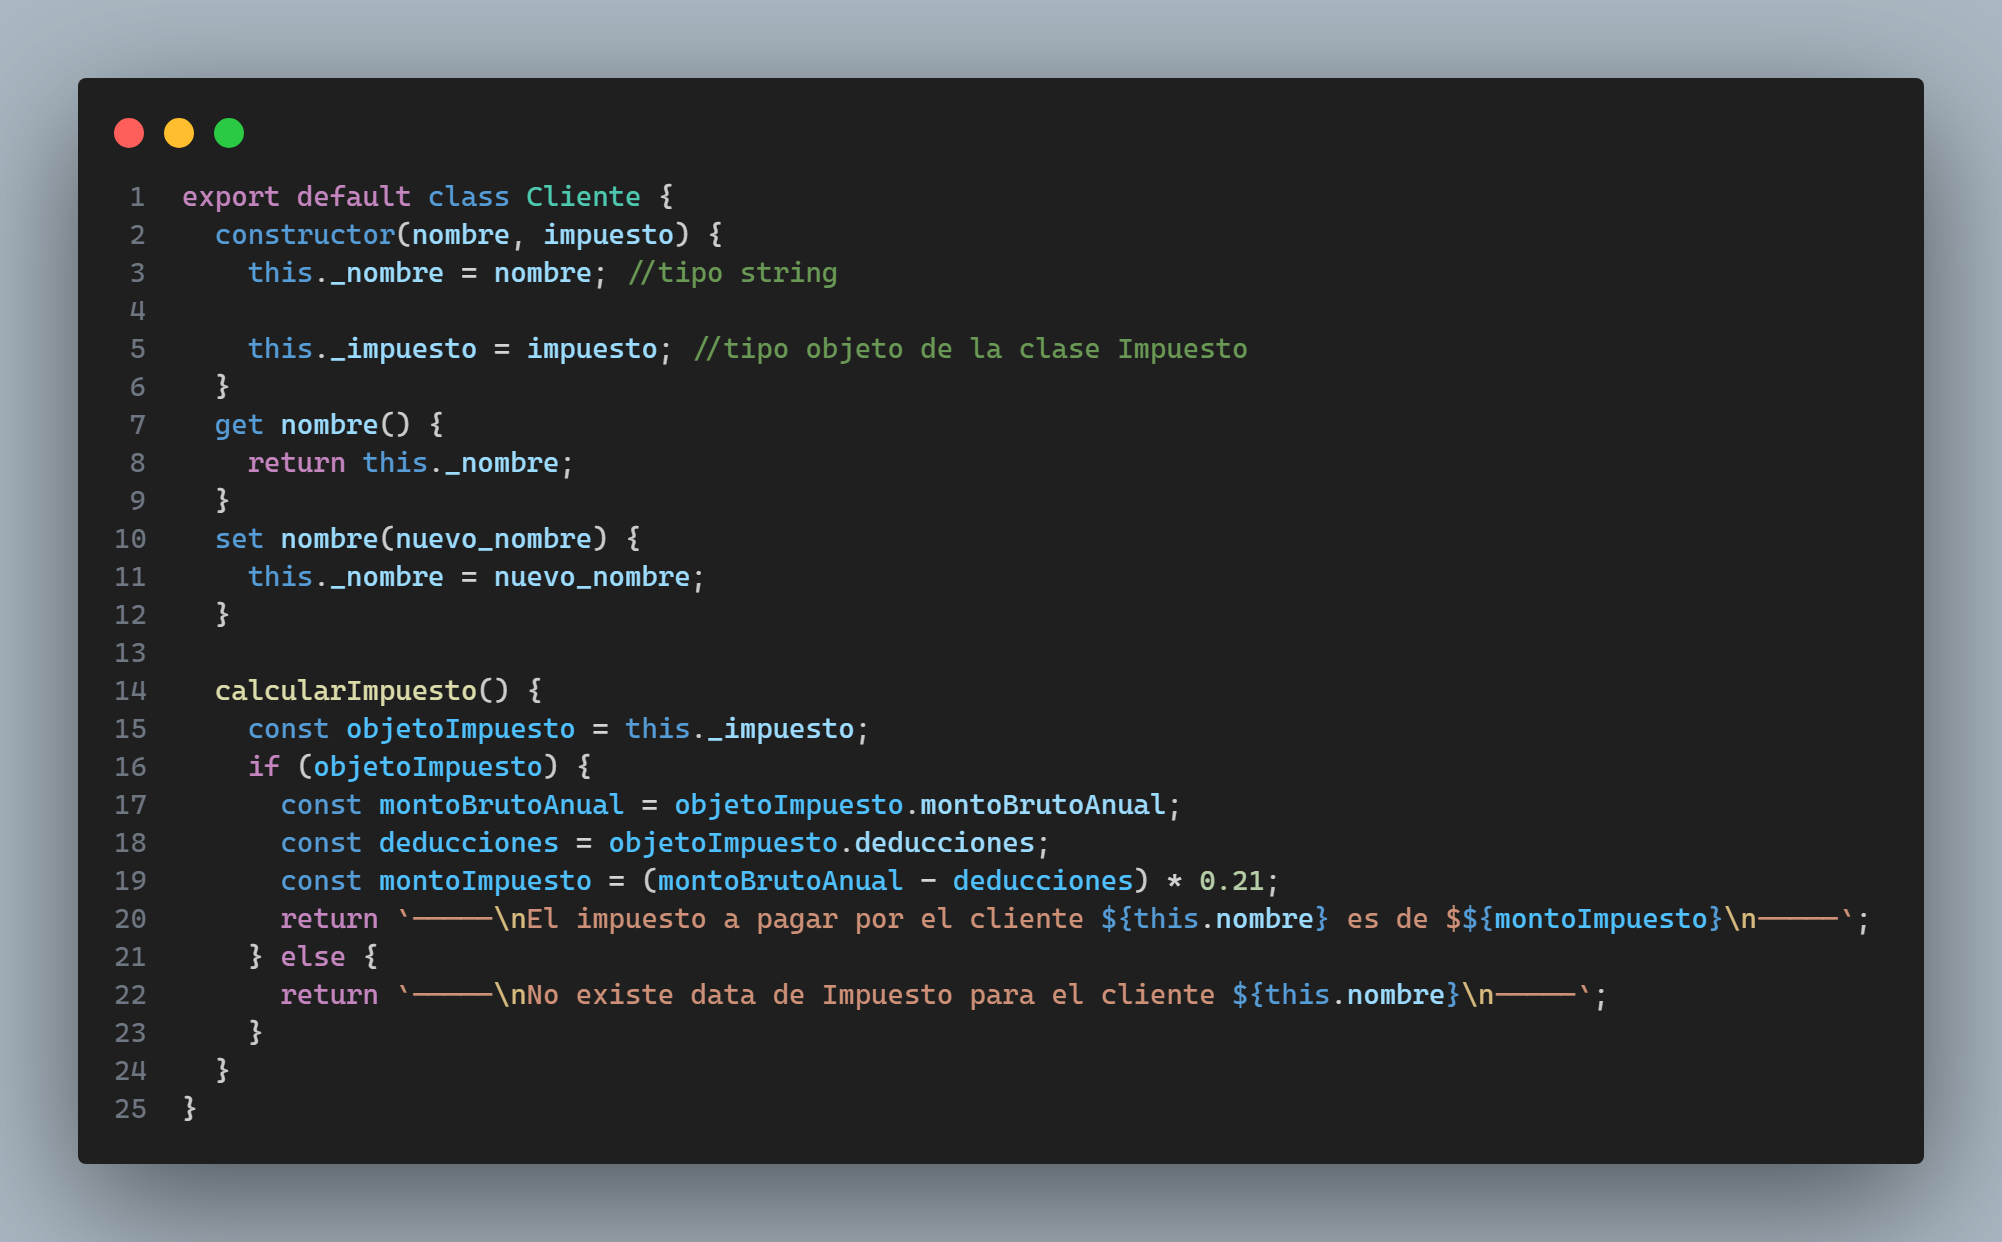
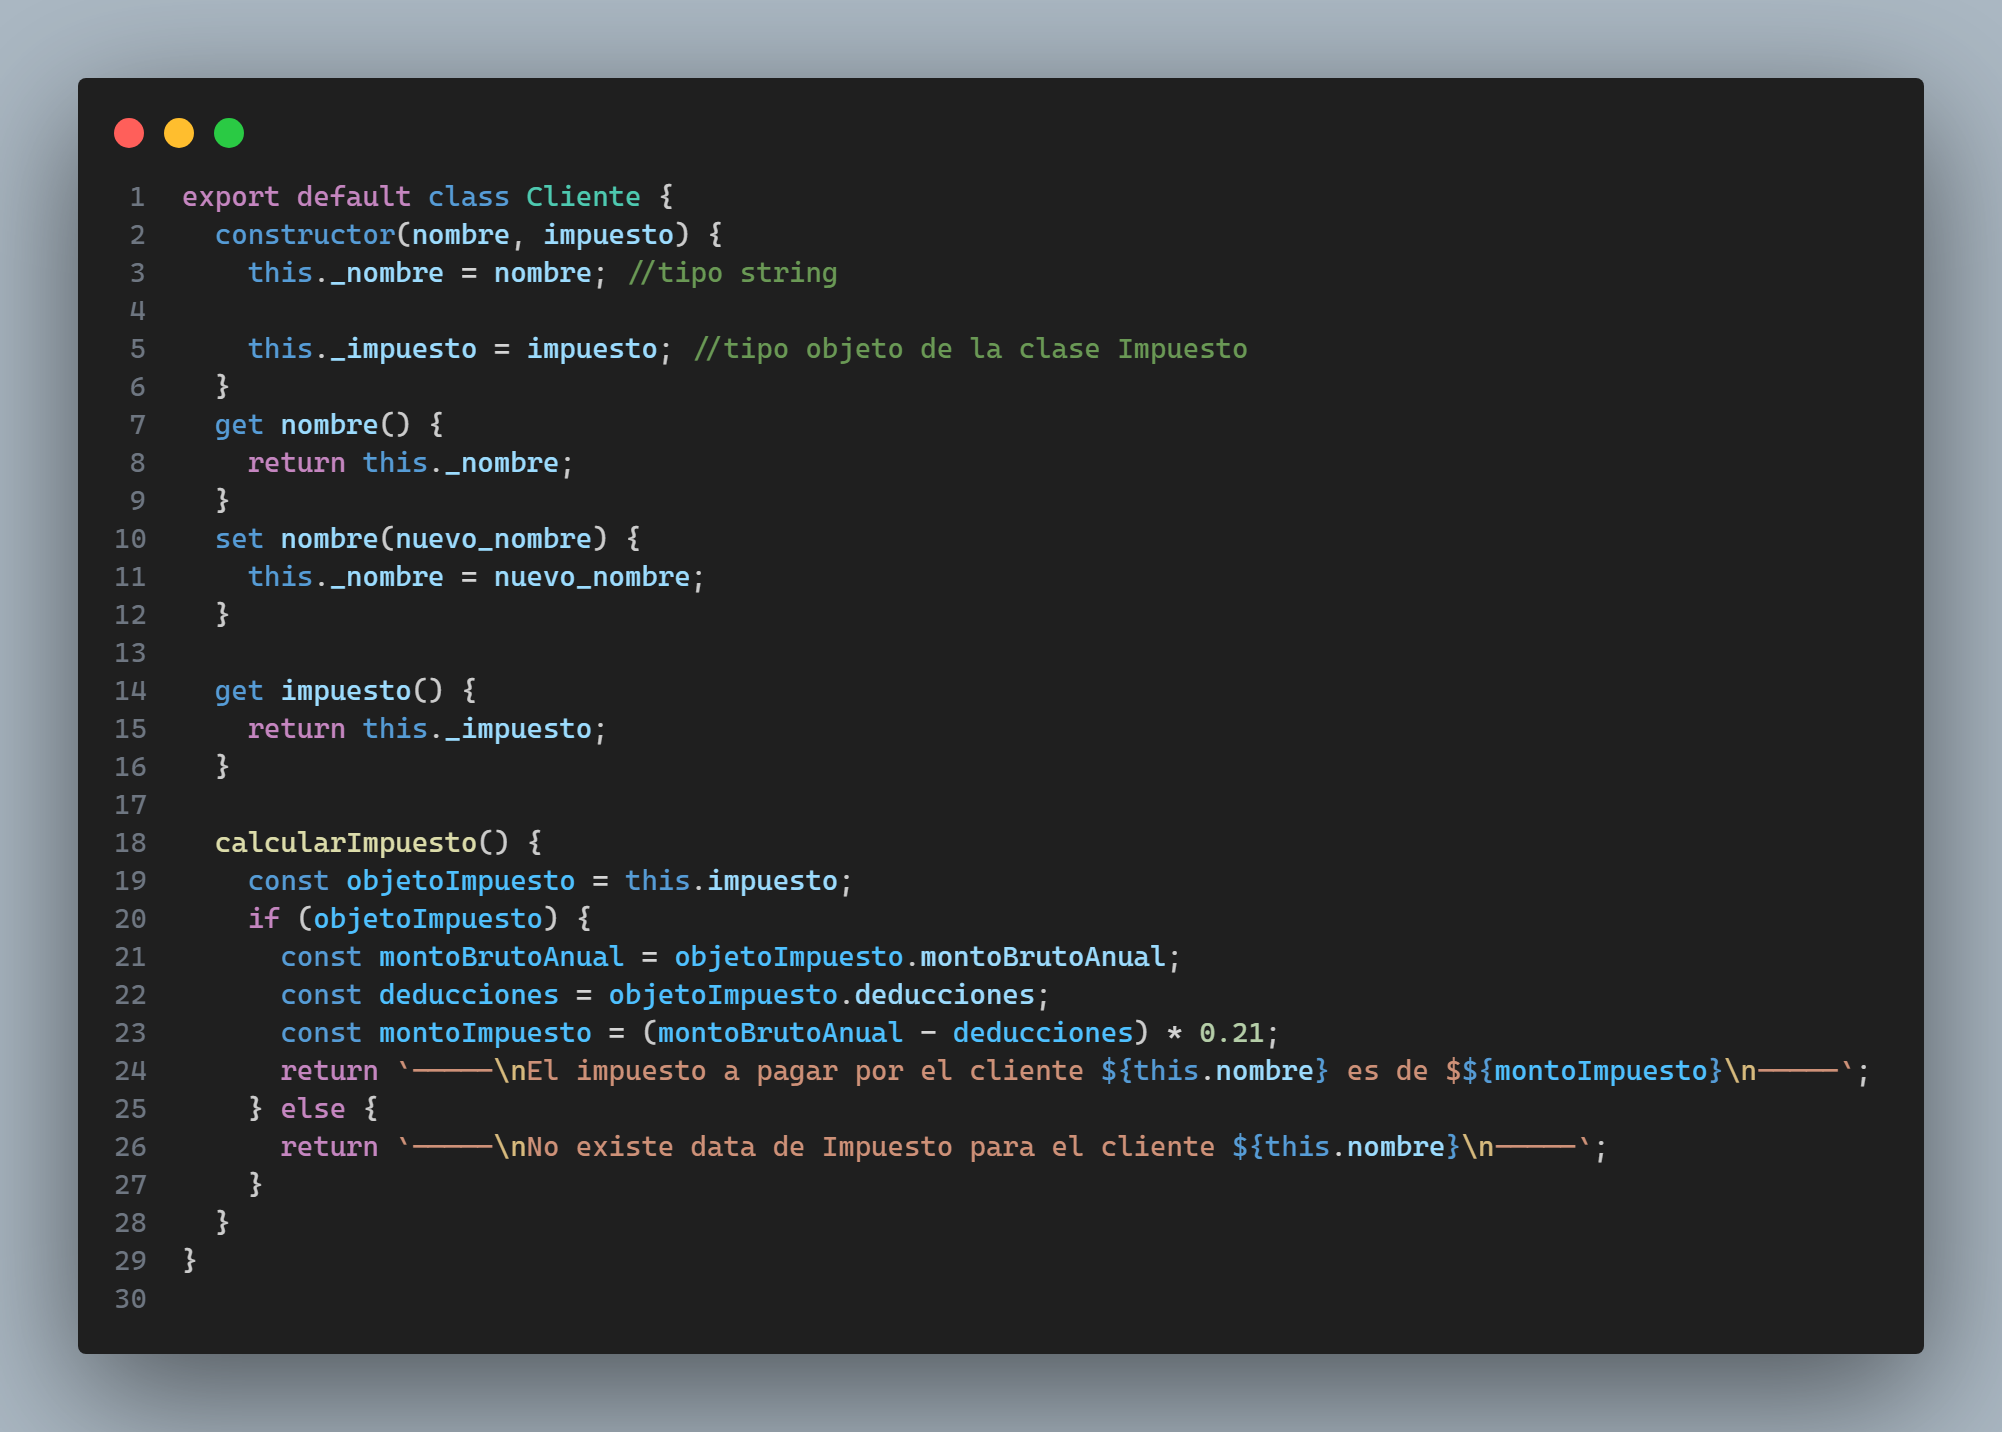
add get to _impuesto and update screenshots

diff --git a/dist/cliente.js b/dist/cliente.js
@@ -77,9 +77,15 @@ var Cliente = (exports["default"] = /*#__PURE__*/ (function () {
       },
     },
     {
+      key: "impuesto",
+      get: function get() {
+        return this._impuesto;
+      },
+    },
+    {
       key: "calcularImpuesto",
       value: function calcularImpuesto() {
-        var objetoImpuesto = this._impuesto;
+        var objetoImpuesto = this.impuesto;
         if (objetoImpuesto) {
           var montoBrutoAnual = objetoImpuesto.montoBrutoAnual;
           var deducciones = objetoImpuesto.deducciones;

diff --git a/README.md b/README.md
@@ -25,3 +25,9 @@ Por último, he utilizado **Babel** con el preset **@babel/preset-env** para tra
 ![Settings Babel](./img/setting_babel_config.png)
 
 Debido a que el código generado por Babel es considerablemente más largo no muestro capturas de pantalla. Sin embargo, dicho código se encuentra en la carpeta **dist** de este repositorio como he mencionado anteriormente.
+
+El comando para ejecutar la generación de los nuevos archivos utilizando babel es el siguiente:
+
+```
+npx babel src/ -d dist/ --config-file ./babel.config.json
+```
